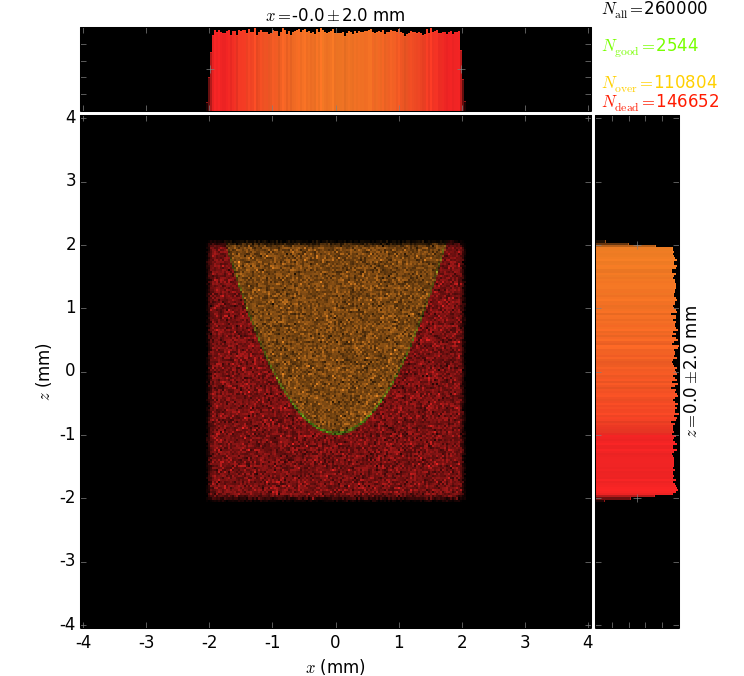
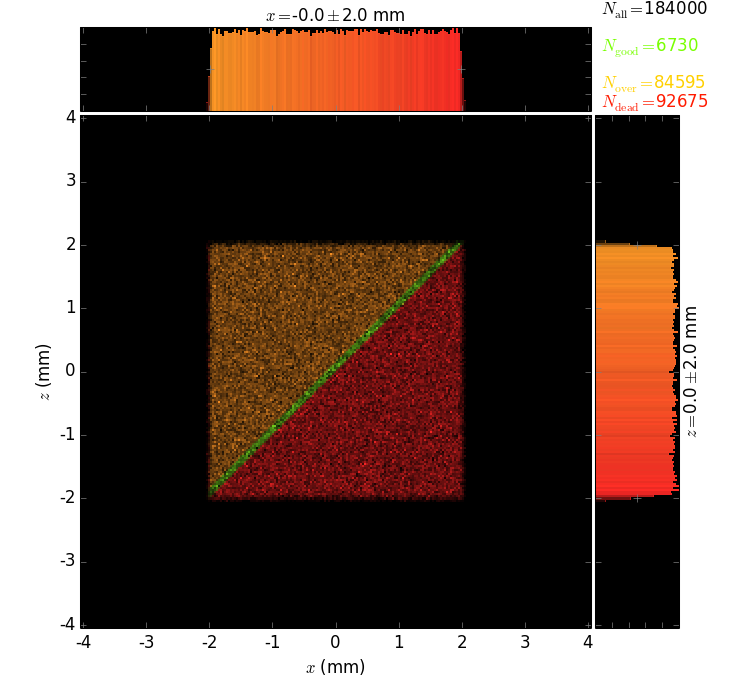
observing reflections or absorption

diff --git a/customobjects.py b/customobjects.py
@@ -8,15 +8,16 @@ class CustomShape(roe.OE):
     def __init__(self, *args, **kwargs):
         self.R = kwargs.pop('R', 0.5)
         roe.OE.__init__(self, *args, **kwargs)
+
     def local_n(self, x, y):
-        a = 2.0 * x
-        b = 10./self.limPhysY[0]
-        c = 1
+        a = 1.0
+        b = 1.0
+        c = 1.0
         norm = (a**2 + c**2)**0.5
         return [a/norm, b/norm, c/norm]
 
     def local_z(self, x, y):
-        return x**2 + 10.*y/self.limPhysY[0] - 11.0
+        return x + y - self.limPhysY[0]
 
 if __name__ == '__main__':
     verts = [
